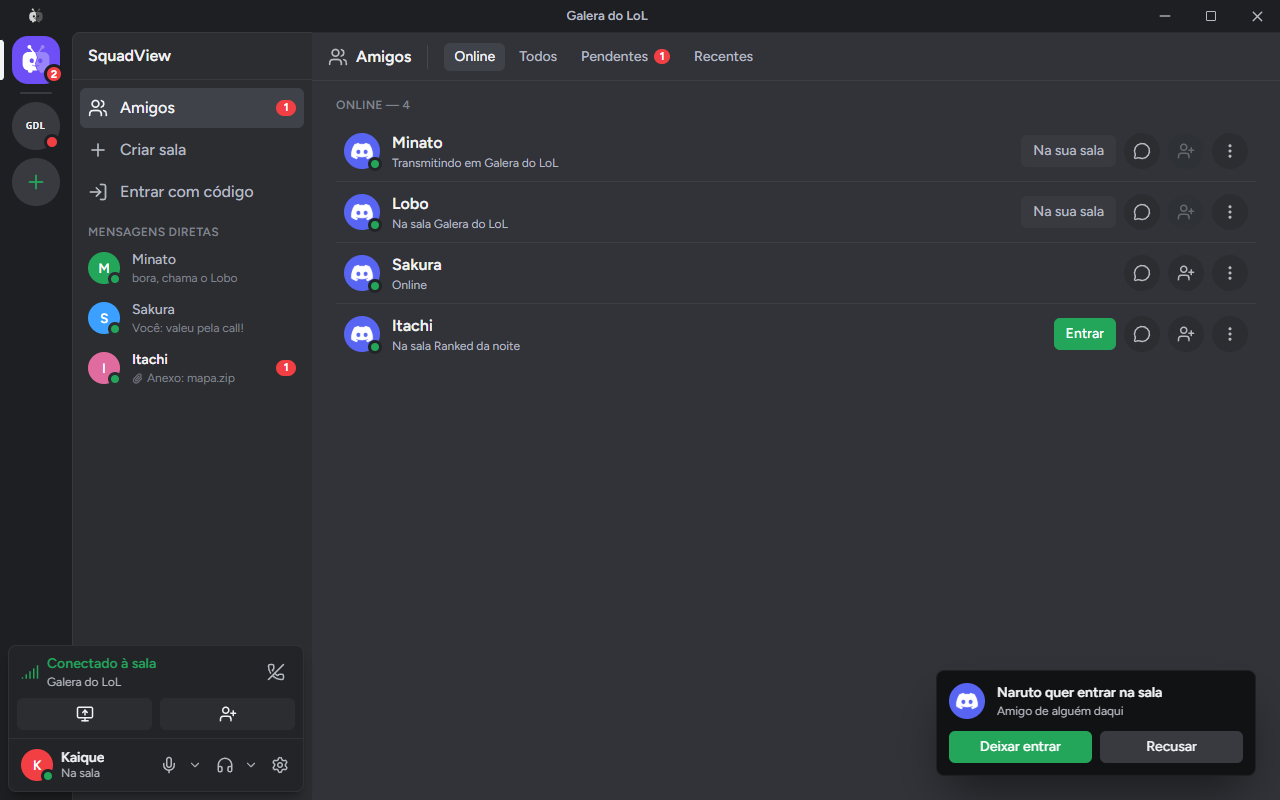
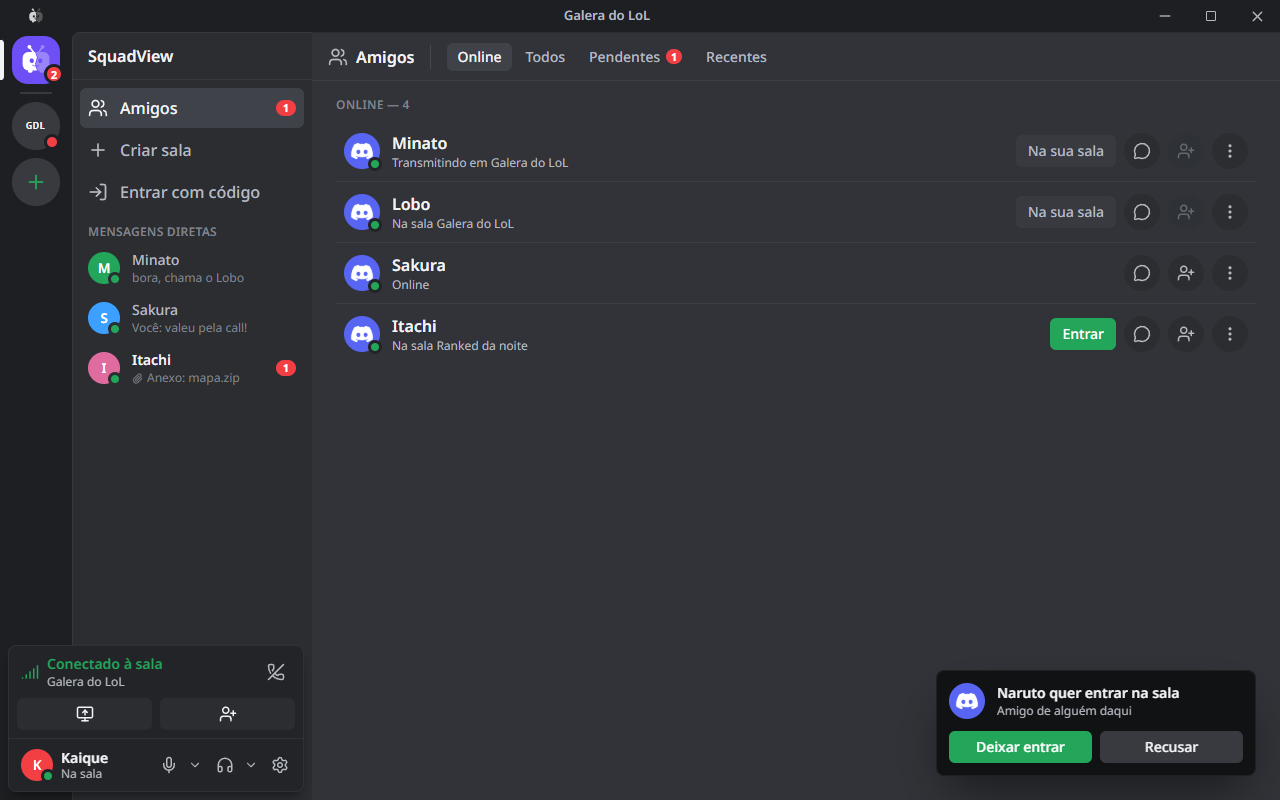
docs(docs): refaz as capturas do README com a fonte nova da 0.12.0

diff --git a/README.md b/README.md
@@ -35,7 +35,7 @@
 </p>
 
 > [!NOTE]
-> **Versão 0.11: o Fliperama.** Transmitindo um jogo com vários controles (Bomberman, jogos de luta, party games), abra o **Fliperama** no menu da sua live: até 3 amigos da call entram como P2, P3 e P4 e jogam pela rede, com controle de Xbox, com o teclado (que vira controle) ou com o mouse (que vira o analógico direito). Para jogos só de teclado e mouse, dê o **controle total** a um jogador por vez, com corte em Ctrl+Alt+F12. Também nesta versão: uma queda rápida da conexão não tira mais ninguém da sala nem derruba a voz, quem sai e volta não aparece duas vezes, e um código de sala que não existe avisa "Código inválido" em vez de criar uma sala vazia. **Na 0.11.1:** o botão do jogador chega ao jogo do host com menos de 1 ms de atraso no app (era 9 ms), um selo FLIPERAMA mostra para todos que o fliperama está aberto, e a live termina sozinha quando você fecha o programa que estava transmitindo. **Na 0.12:** dá para entrar no fliperama também pelos "..." da live de quem hospeda, quem entra é sempre o P2 em diante (o P1 é quem hospeda) e a live mostra as teclas que viram cada botão do controle; o tempo da sala conta de quando ela deixou de estar vazia (sair e voltar não zera mais); quem vê a sala do servidor de fora vê quem está mudo ou silenciado; sair da sala encerra a sua live; e, com o app aberto, a versão nova aparece também quando você volta para a janela. Achou um problema? [Abra uma issue](https://github.com/Kaique292/squadview/issues).
+> **Versão 0.11: o Fliperama.** Transmitindo um jogo com vários controles (Bomberman, jogos de luta, party games), abra o **Fliperama** no menu da sua live: até 3 amigos da call entram como P2, P3 e P4 e jogam pela rede, com controle de Xbox, com o teclado (que vira controle) ou com o mouse (que vira o analógico direito). Para jogos só de teclado e mouse, dê o **controle total** a um jogador por vez, com corte em Ctrl+Alt+F12. Também nesta versão: uma queda rápida da conexão não tira mais ninguém da sala nem derruba a voz, quem sai e volta não aparece duas vezes, e um código de sala que não existe avisa "Código inválido" em vez de criar uma sala vazia. **Na 0.11.1:** o botão do jogador chega ao jogo do host com menos de 1 ms de atraso no app (era 9 ms), um selo FLIPERAMA mostra para todos que o fliperama está aberto, e a live termina sozinha quando você fecha o programa que estava transmitindo. **Na 0.12:** dá para entrar no fliperama também pelos "..." da live de quem hospeda, quem entra é sempre o P2 em diante (o P1 é quem hospeda) e a live mostra as teclas que viram cada botão do controle; o tempo da sala conta de quando ela deixou de estar vazia (sair e voltar não zera mais); quem vê a sala do servidor de fora vê quem está mudo ou silenciado; sair da sala encerra a sua live, e o vídeo dela acompanha o quadro na faixa de participantes; o app passa a usar a Noto Sans, com os tamanhos e pesos de texto do Discord; e, com o app aberto, a versão nova aparece também quando você volta para a janela. Achou um problema? [Abra uma issue](https://github.com/Kaique292/squadview/issues).
 
 ## ✨ O que ele faz
 
